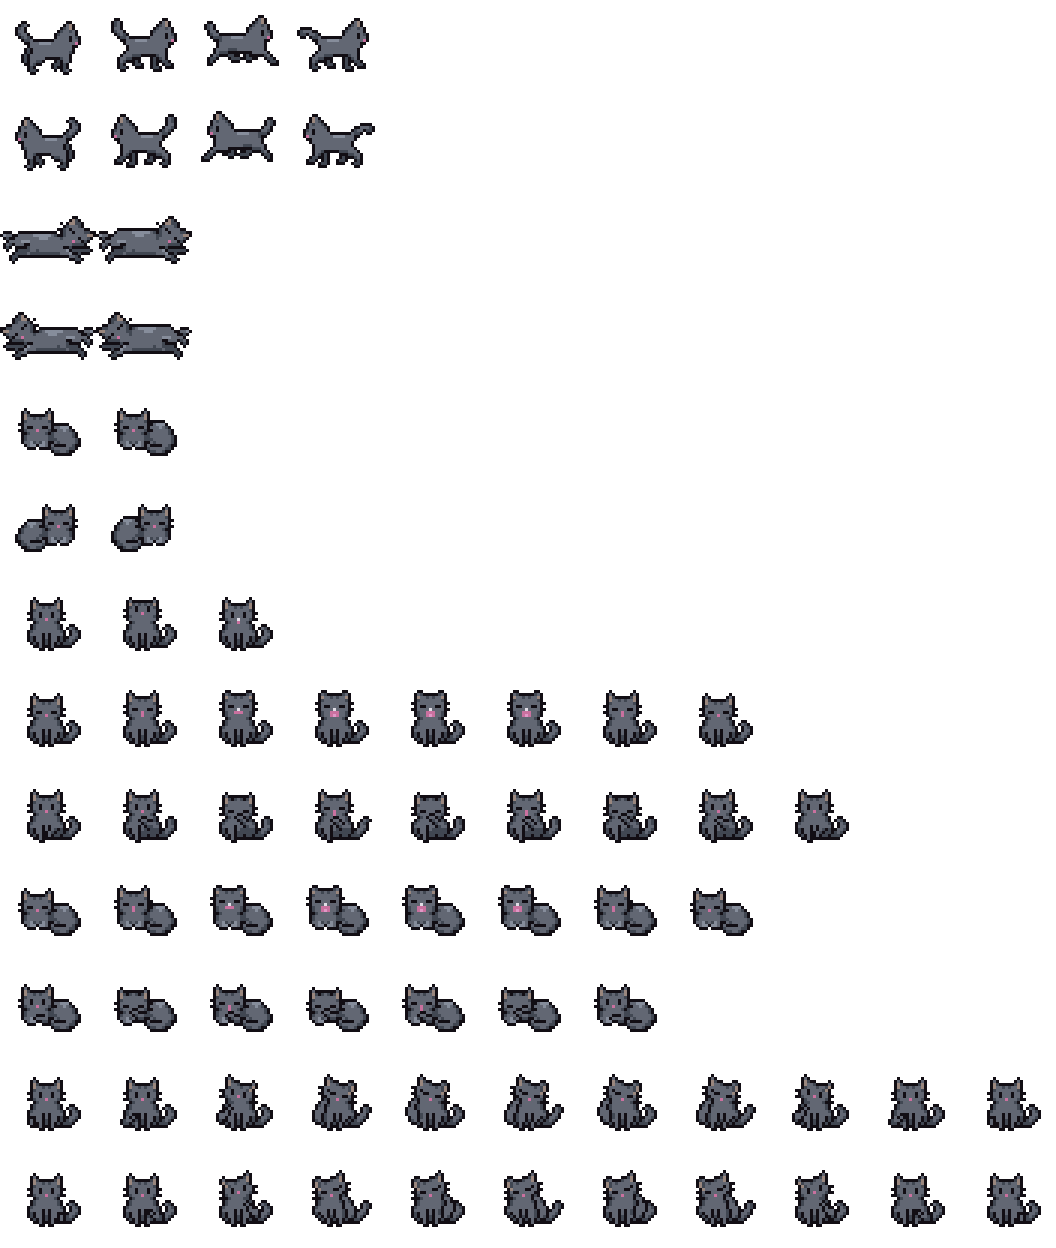
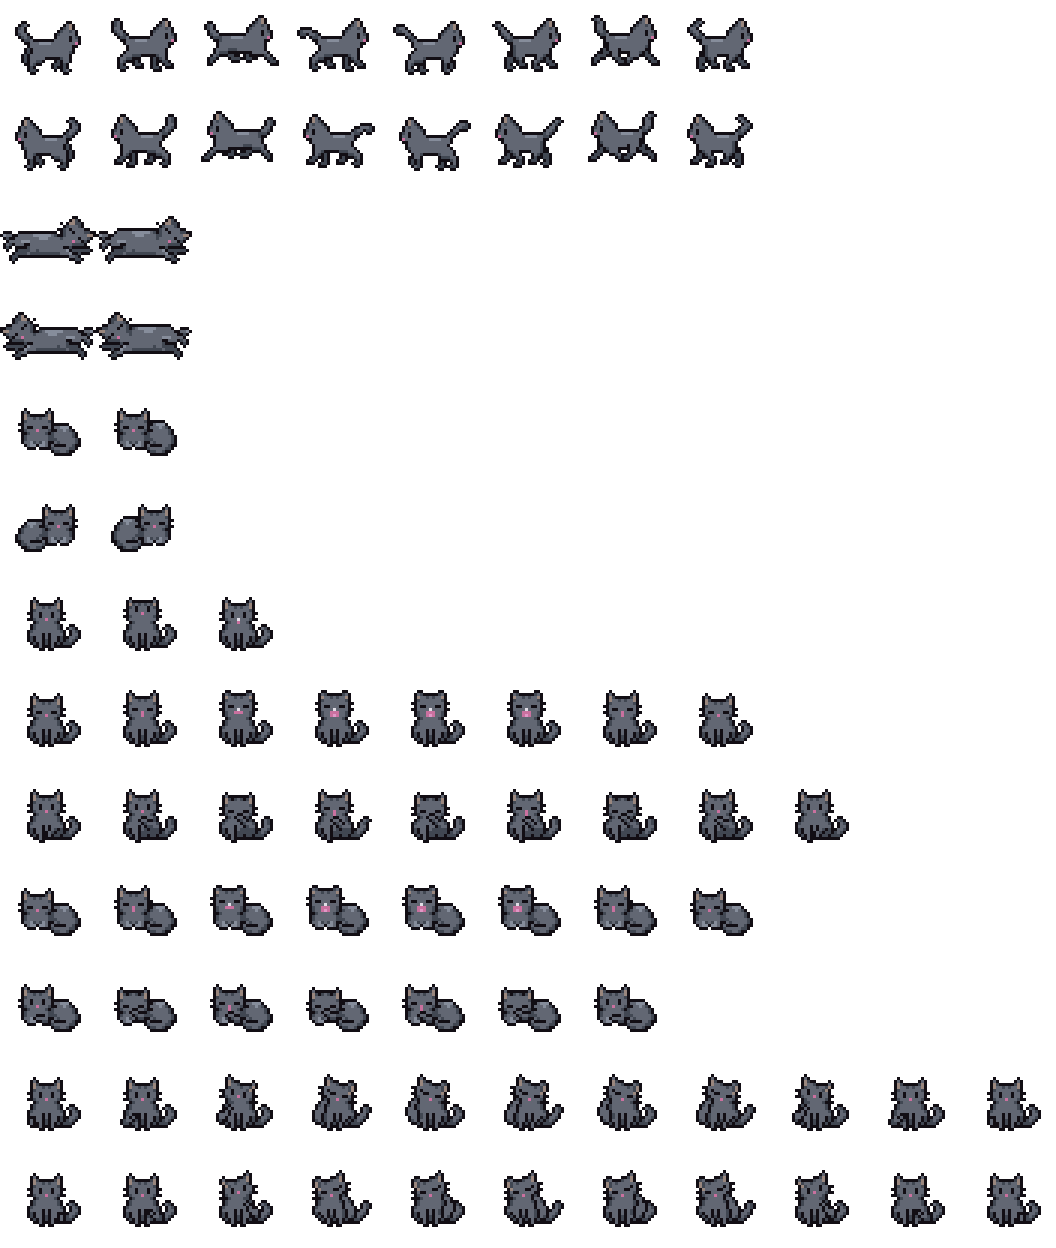
Use full 8-frame walk cycle at 150ms for proper walking pace

diff --git a/src/pages/MemberProfile.jsx b/src/pages/MemberProfile.jsx
@@ -34,7 +34,7 @@ const FRAME_H = Math.round(96 * SCALE)    // 48
 // 6=meow-sit    7=yawn-sit   8=wash-sit            ← active rest (idx 2+)
 // 9=yawn-lie    10=wash-lie
 // 11=scratch-L  12=scratch-R (directional)
-const WALK_FRAME_COUNT = 4
+const WALK_FRAME_COUNT = 8
 const REST_BEHAVIORS = [
   { rows: [2, 3],   frames: 2,  frameMs: 700, zzz: true  }, // 0 sleep flat
   { rows: [4, 5],   frames: 2,  frameMs: 700, zzz: true  }, // 1 sleep curl
@@ -78,7 +78,7 @@ function CatProgressBar({ pct, atlasUrl, sheetOpen }) {
   useEffect(() => {
     setFrame(0)
     if (isWalking) {
-      const id = setInterval(() => setFrame(f => (f + 1) % WALK_FRAME_COUNT), 120)
+      const id = setInterval(() => setFrame(f => (f + 1) % WALK_FRAME_COUNT), 150)
       return () => clearInterval(id)
     }
     const b = REST_BEHAVIORS[behaviorIdx]